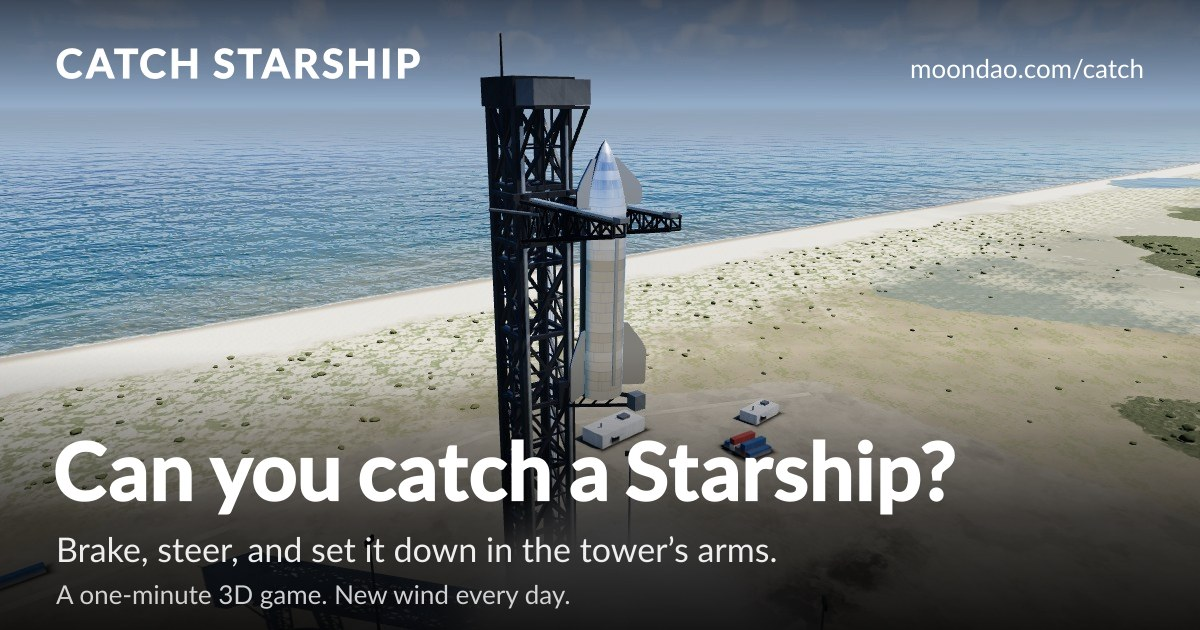
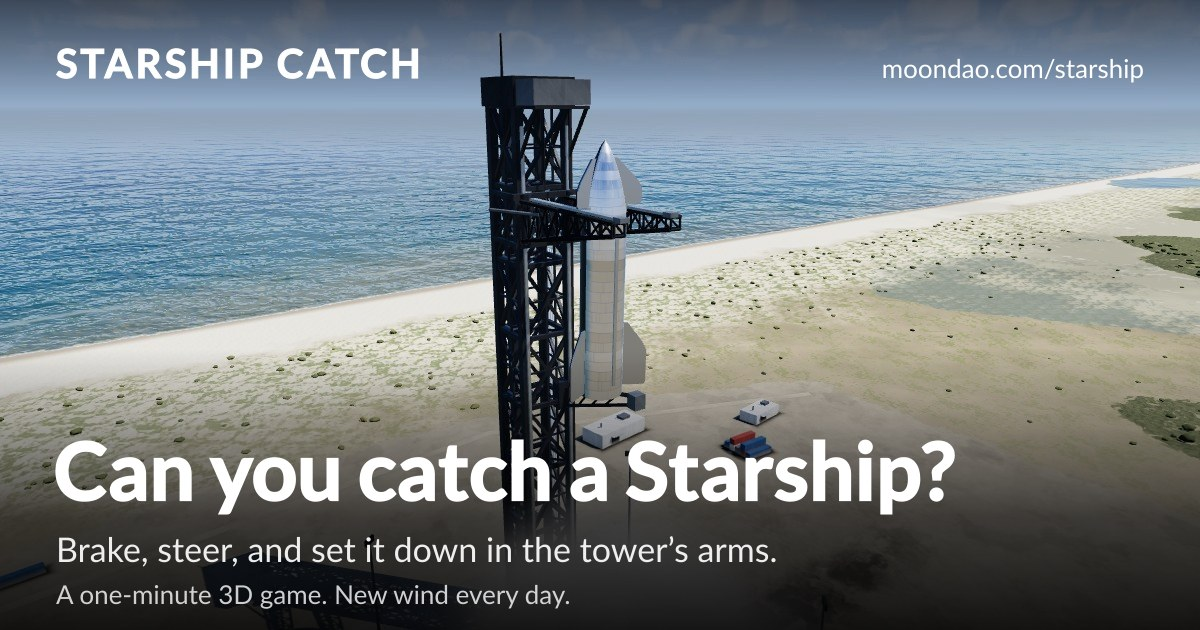
Starship Catch: titles, share URL, redirect and layout for the new address
The previous commit carried only the file move. This is the rest of the rename:
the /catch redirect, the chromeless layout entry for /starship, the title on
the start screen, share card, photo stamp and link previews, and the share URL.

Changed region(s): [[0.0308, 0.0603, 0.37, 0.1508], [0.74, 0.0905, 0.9558, 0.1206]]

diff --git a/ui/components/catch/CatchGame.tsx b/ui/components/catch/CatchGame.tsx
@@ -913,7 +913,7 @@ export default function CatchGame({ challenge = null }: { challenge?: Challenge 
       <canvas
         ref={canvasRef}
         className="absolute inset-0 h-full w-full cursor-grab active:cursor-grabbing"
-        aria-label="Catch: a Starship tower catch game"
+        aria-label="Starship Catch: a Starship tower catch game"
         onPointerDown={onLookDown}
         onPointerMove={onLookMove}
         onPointerUp={onLookUp}
@@ -1118,7 +1118,7 @@ export default function CatchGame({ challenge = null }: { challenge?: Challenge 
         <div className="absolute inset-0 z-20 flex items-end justify-center bg-gradient-to-t from-black/70 via-transparent to-transparent p-3 sm:items-center sm:justify-end sm:bg-none sm:p-4 sm:pr-[6vw]">
           <div className="w-full max-w-md rounded-2xl border border-white/10 bg-black/70 p-4 backdrop-blur-md sm:p-5">
             <p className="text-[10px] font-semibold uppercase tracking-[0.18em] text-white/55 sm:text-[11px]">Can you catch a Starship?</p>
-            <h1 className="mt-0.5 font-heading text-3xl font-extrabold tracking-tight sm:mt-1 sm:text-5xl">CATCH</h1>
+            <h1 className="mt-0.5 font-heading text-3xl font-extrabold leading-none tracking-tight sm:mt-1 sm:text-[2.6rem]">STARSHIP CATCH</h1>
             <p className="mt-2 hidden text-sm leading-relaxed text-white/75 sm:block">
               The ship falls belly-down over Starbase, flips and is yours, coming in fast. Hold BURN to brake, swing the flame to steer, and set it down between the tower&apos;s arms, right over the green circle. Miss the brakes and it ends up in the Gulf. New wind every day.
             </p>
@@ -1256,7 +1256,7 @@ export default function CatchGame({ challenge = null }: { challenge?: Challenge 
             {/* eslint-disable-next-line @next/next/no-img-element */}
             <img
               src={(modal === 'photo' ? photoUrl : cardUrl) ?? ''}
-              alt={modal === 'photo' ? 'Your Catch photo' : 'Your Catch result card'}
+              alt={modal === 'photo' ? 'Your Starship Catch photo' : 'Your Starship Catch result card'}
               className="max-h-[70vh] w-full select-auto rounded-xl border border-white/15 object-contain"
             />
             <p className="mt-2 text-center text-xs text-white/65">

diff --git a/ui/lib/catch/share.ts b/ui/lib/catch/share.ts
@@ -1,5 +1,5 @@
 /**
- * Catch share card and share plumbing (client-only).
+ * Starship Catch share card and share plumbing (client-only).
  *
  * The image is the post: X suppresses links, so the card carries the end shot,
  * score, verdict and the URL printed on it. Challenge links, the clipboard and
@@ -21,8 +21,8 @@ import { bragLine, formatScore, outcomeHeadline, worstDamage } from './verdicts'
 export { canvasToBlob, challengeQuery, cleanNickname, copyImage, parseChallenge, xIntentUrl }
 export type { Challenge, ShareMethod }
 
-export const SHARE_PATH = '/catch'
-export const SHARE_URL_LABEL = 'moondao.com/catch'
+export const SHARE_PATH = '/starship'
+export const SHARE_URL_LABEL = 'moondao.com/starship'
 export const CARD_W = 1200
 export const CARD_H = 675
 
@@ -132,8 +132,8 @@ export function composeCard(args: { frame: HTMLCanvasElement; result: FlightResu
 
   g.fillStyle = '#fff'
   g.font = `800 34px ${head}`
-  g.fillText('CATCH STARSHIP', 48, 70)
-  const brandW = g.measureText('CATCH STARSHIP').width
+  g.fillText('STARSHIP CATCH', 48, 70)
+  const brandW = g.measureText('STARSHIP CATCH').width
   if (result.mode === 'pro') {
     const x = 48 + brandW + 22
     g.fillStyle = '#ffd34d'
@@ -191,7 +191,7 @@ export function stampPhoto(photo: HTMLCanvasElement): HTMLCanvasElement {
   g.shadowBlur = 8 * s
   g.fillStyle = 'rgba(255,255,255,0.92)'
   g.font = `800 ${Math.round(26 * s)}px "Archivo", "Lato", system-ui, sans-serif`
-  g.fillText('CATCH STARSHIP', photo.width - 28 * s, photo.height - 54 * s)
+  g.fillText('STARSHIP CATCH', photo.width - 28 * s, photo.height - 54 * s)
   g.font = `700 ${Math.round(20 * s)}px "Lato", system-ui, sans-serif`
   g.fillText(SHARE_URL_LABEL, photo.width - 28 * s, photo.height - 26 * s)
   g.shadowBlur = 0

diff --git a/ui/pages/starship.tsx b/ui/pages/starship.tsx
@@ -1,8 +1,8 @@
 /**
- * Catch: a one-minute 3D game. Guide a Starship upper stage into the launch
+ * Starship Catch: a one-minute 3D game. Guide a Starship upper stage into the launch
  * tower's arms at Starbase.
  *
- * /catch is the public share link. The page is chromeless like /touchdown (see
+ * /starship is the public share link (/catch redirects here). The page is chromeless like /touchdown (see
  * Layout): no site nav over the game. The shell, Open Graph tags and fonts are
  * server-rendered; the game canvas is client-only.
  */
@@ -26,7 +26,7 @@ type Props = { challenge: Challenge | null }
 
 export default function CatchPage({ challenge }: Props) {
   const score = challenge ? challenge.score.toLocaleString('en-US') : ''
-  const title = challenge ? `Beat ${challenge.nickname ? `${challenge.nickname}'s ` : ''}${score} on Catch` : 'Catch: can you catch a Starship?'
+  const title = challenge ? `Beat ${challenge.nickname ? `${challenge.nickname}'s ` : ''}${score} on Starship Catch` : 'Starship Catch: can you catch a Starship?'
   const description =
     'A one-minute 3D game. A Starship falls out of the sky over Starbase: brake, steer, and set it down in the launch tower’s arms. New wind every day.'
   const ogQuery = challenge ? `?${challengeQuery(challenge)}` : ''

diff --git a/ui/pages/api/og/catch.tsx b/ui/pages/api/og/catch.tsx
@@ -1,7 +1,7 @@
 /**
- * Link-preview image for a Catch challenge link ("Beat Ryan's 1,042").
+ * Link-preview image for a Starship Catch challenge link ("Beat Ryan's 1,042").
  *
- * The plain /catch preview is a static file, public/catch/og.jpg, and
+ * The plain /starship preview is a static file, public/catch/og.jpg, and
  * never reaches this route. A challenge link gets the same staged scene
  * (public/catch/og-base.jpg, rendered from the game) with the score to
  * beat written over it.
@@ -64,7 +64,7 @@ export default async function handler(req: NextApiRequest, res: NextApiResponse)
   <defs></defs>
   ${text(
     'x="56" y="78" font-size="40" font-weight="700" letter-spacing="3" stroke="#fff" stroke-width="1.2"',
-    'CATCH STARSHIP'
+    'STARSHIP CATCH'
   )}
   ${text('x="1144" y="78" font-size="26" text-anchor="end"', escapeXml(SHARE_URL_LABEL))}
   ${text(
@@ -90,7 +90,7 @@ export default async function handler(req: NextApiRequest, res: NextApiResponse)
 
   // Fallback: the generic text card.
   const svg = renderOgSvg({
-    eyebrow: 'MoonDAO  ·  Catch',
+    eyebrow: 'MoonDAO  ·  Starship Catch',
     title: challenge
       ? `Beat ${challenge.score.toLocaleString('en-US')} points`
       : 'Can you catch a Starship?',

diff --git a/ui/components/layout/Layout.tsx b/ui/components/layout/Layout.tsx
@@ -101,7 +101,7 @@ export default function Layout({ children, lightMode, setLightMode }: Layout) {
     '/moonbase/[projectId]',
     '/moonbase/touchdown',
     '/touchdown',
-    '/catch',
+    '/starship',
   ]
 
   const isFullscreen = fullscreenPaths.includes(router.pathname)
@@ -109,7 +109,7 @@ export default function Layout({ children, lightMode, setLightMode }: Layout) {
   // The games (Touchdown, Catch) own the whole viewport: no nav, search button or
   // campaign banners over the canvas. Only the cookie banner (consent) stays.
   const isChromeless =
-    router.pathname === '/touchdown' || router.pathname === '/moonbase/touchdown' || router.pathname === '/catch'
+    router.pathname === '/touchdown' || router.pathname === '/moonbase/touchdown' || router.pathname === '/starship'
 
   return (
     <div

diff --git a/ui/next.config.js b/ui/next.config.js
@@ -259,6 +259,14 @@ module.exports = withBundleAnalyzer(
             destination: '/moonbase?race=shared-next-landing&year=2050',
             statusCode: 302,
           },
+          // The Starship Catch game lives at /starship; /catch was its working
+          // address. 302 so the short path stays free to point elsewhere later.
+          // Query strings (challenge links) carry over.
+          {
+            source: '/catch',
+            destination: '/starship',
+            statusCode: 302,
+          },
           // /touchdown used to 301 to the first Arbitrum DePrize race. It is
           // now the Touchdown game (pages/touchdown.tsx), which links on to
           // that race from its result screen.

diff --git a/ui/lib/analytics/ga4.ts b/ui/lib/analytics/ga4.ts
@@ -548,7 +548,7 @@ export type CatchEventName =
   | 'catch_retry'
 
 /**
- * Catch game events (/catch), mirroring Touchdown's. Params are game telemetry
+ * Starship Catch game events (/starship), mirroring Touchdown's. Params are game telemetry
  * only: mode, outcome, score, speed, fuel, share method. Never a nickname.
  */
 export function trackCatch(
